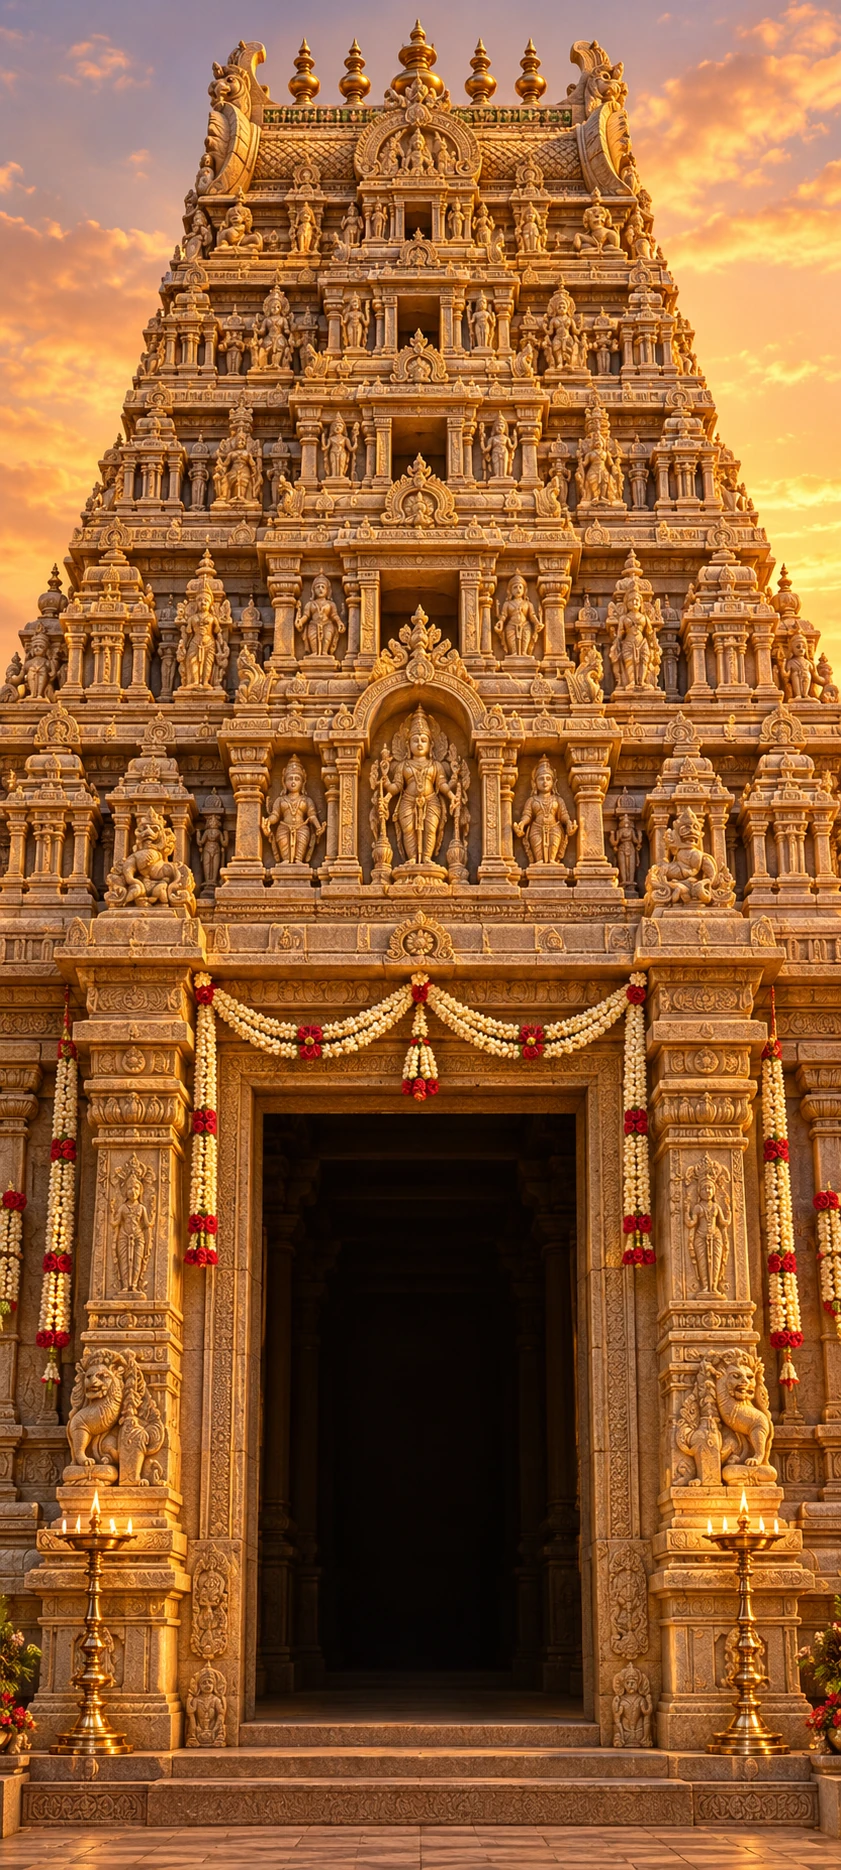
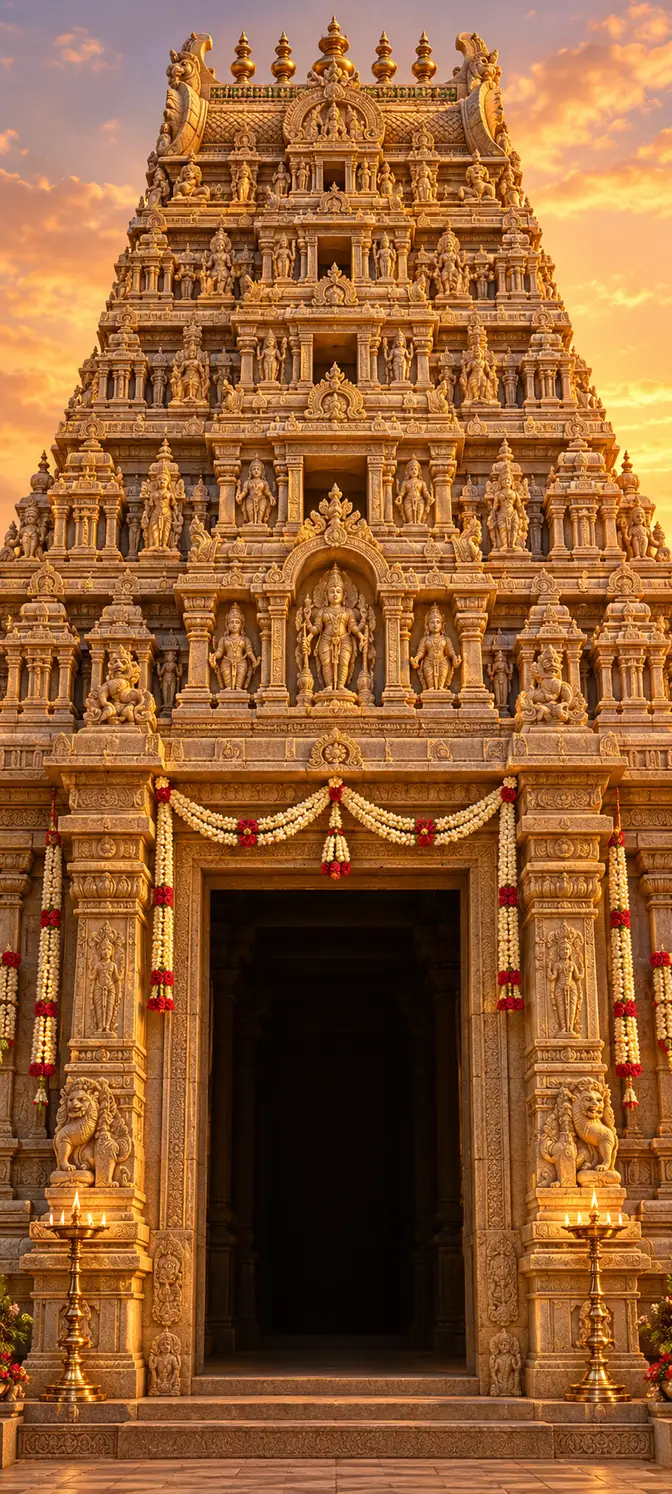
Reduce mobile temple and door image downloads

diff --git a/invite.html b/invite.html
@@ -45,6 +45,9 @@
     background-color: #432010; background-repeat: no-repeat; position: relative; z-index: 1; backface-visibility: hidden; will-change: transform; }
   .temple-leaf.left { background-position: 5.8824% 40.8163%; transform-origin: left center; }
   .temple-leaf.right { background-position: 94.1176% 40.8163%; transform-origin: right center; }
+  @media (max-width: 768px) {
+    .temple-leaf { background-image: url('assets/temple-doors-mobile.webp'); }
+  }
   @media (max-width: 768px) and (orientation: portrait) {
     .temple-sticky::before { background-image: url('assets/temple-entrance-mobile.webp'); }
     .temple-art { aspect-ratio: 841 / 1870; }

diff --git a/scripts/convert-images.py b/scripts/convert-images.py
@@ -1,4 +1,4 @@
-"""Create WebP renditions without resizing or overwriting the source images. Requires Pillow."""
+"""Create WebP renditions, including smaller mobile temple assets, preserving source images. Requires Pillow."""
 from pathlib import Path
 from PIL import Image, ImageChops, ImageOps
 
@@ -16,8 +16,14 @@ for source in sources:
         image = ImageOps.exif_transpose(original)
         transparent = "A" in image.getbands() or "transparency" in image.info
         image = image.convert("RGBA" if transparent else "RGB")
-        quality = 94 if source.stem == "scroll-silk" else 90
+        if source.stem == "temple-entrance-mobile":
+            image.thumbnail((672, 10000), Image.Resampling.LANCZOS)
+        quality = 65 if source.stem == "temple-entrance-mobile" else 94 if source.stem == "scroll-silk" else 90
         image.save(target, "WEBP", quality=quality, method=6, alpha_quality=100, exact=True)
+        if source.stem == "temple-doors":
+            mobile = image.copy()
+            mobile.thumbnail((512, 10000), Image.Resampling.LANCZOS)
+            mobile.save(source.with_name("temple-doors-mobile.webp"), "WEBP", quality=65, method=4, alpha_quality=100, exact=True)
         with Image.open(target) as result:
             assert result.size == image.size, f"Dimensions changed: {source.name}"
             if transparent:
